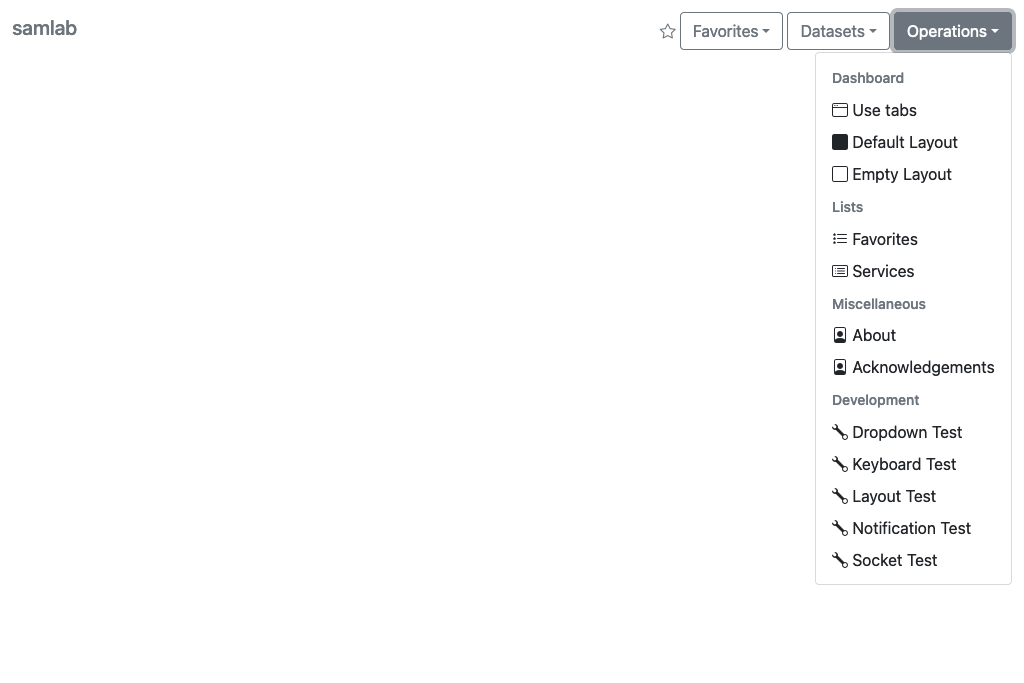
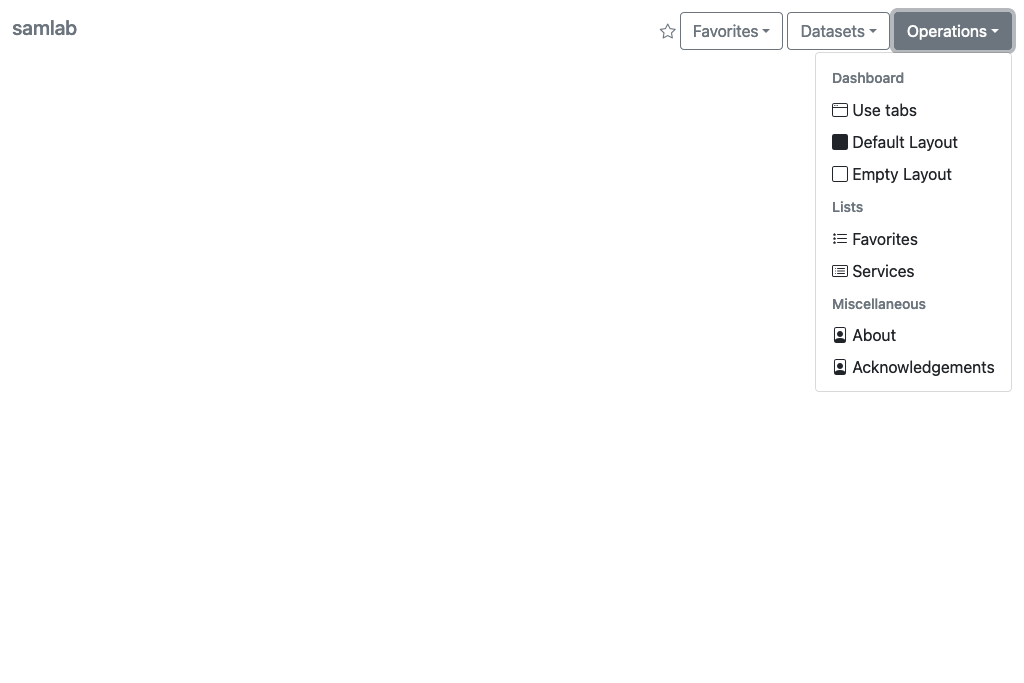
Disable developer access for the default configuration.

Changed region(s): [[0.8125, 0.5534, 0.9375, 0.6457], [0.8125, 0.7687, 0.9375, 0.8302], [0.8125, 0.6764, 0.9375, 0.7379]]

diff --git a/samlab/dashboard/acl.py b/samlab/dashboard/acl.py
@@ -13,6 +13,19 @@ class ForbidAll(object):
         return f"{self.__class__.__module__}.{self.__class__.__name__}()"
 
 
+class ForbidDeveloper(object):
+    """Access control list strategy that allows regular (non developer) access.
+    """
+    def __call__(self, authorization, requested):
+        if "developer" in requested:
+            return False
+        return True
+
+
+    def __repr__(self):
+        return f"{self.__class__.__module__}.{self.__class__.__name__}()"
+
+
 class List(object):
     """Access control list strategy based on lists of usernames."""
     def __init__(self, **permissions):
@@ -42,5 +55,3 @@ class PermitAll(object):
 
     def __repr__(self):
         return f"{self.__class__.__module__}.{self.__class__.__name__}()"
-
-
